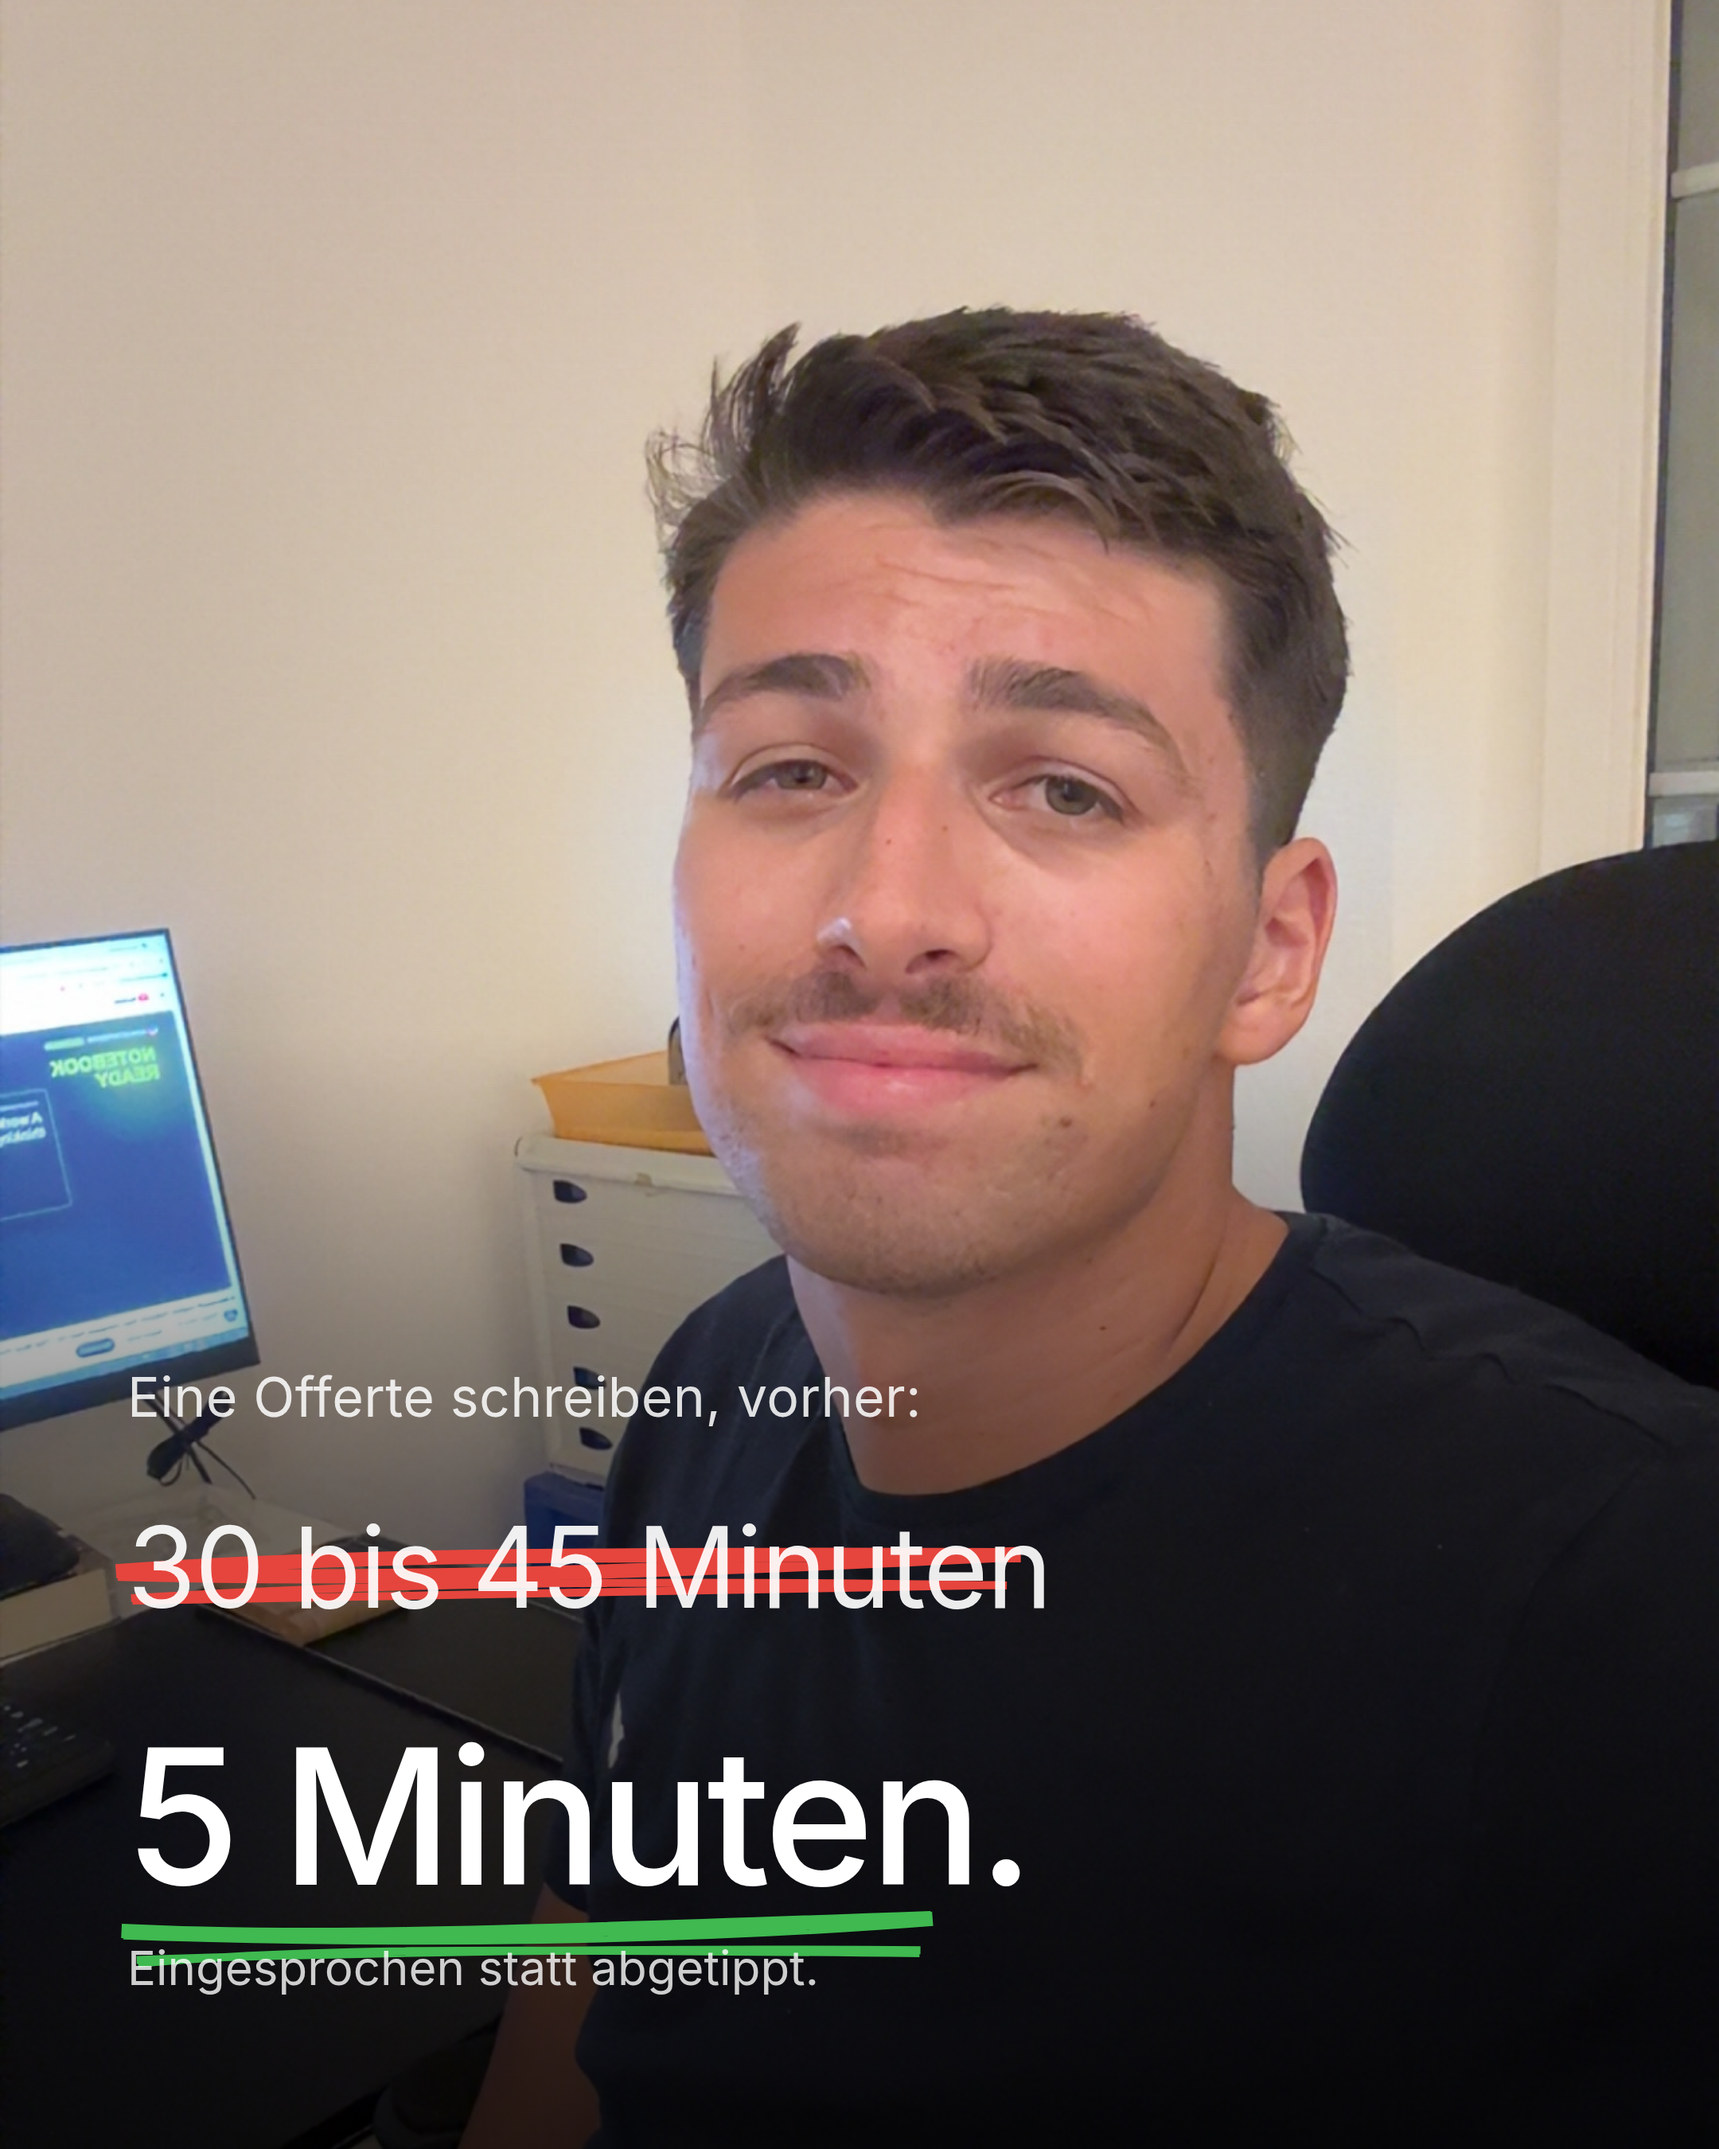
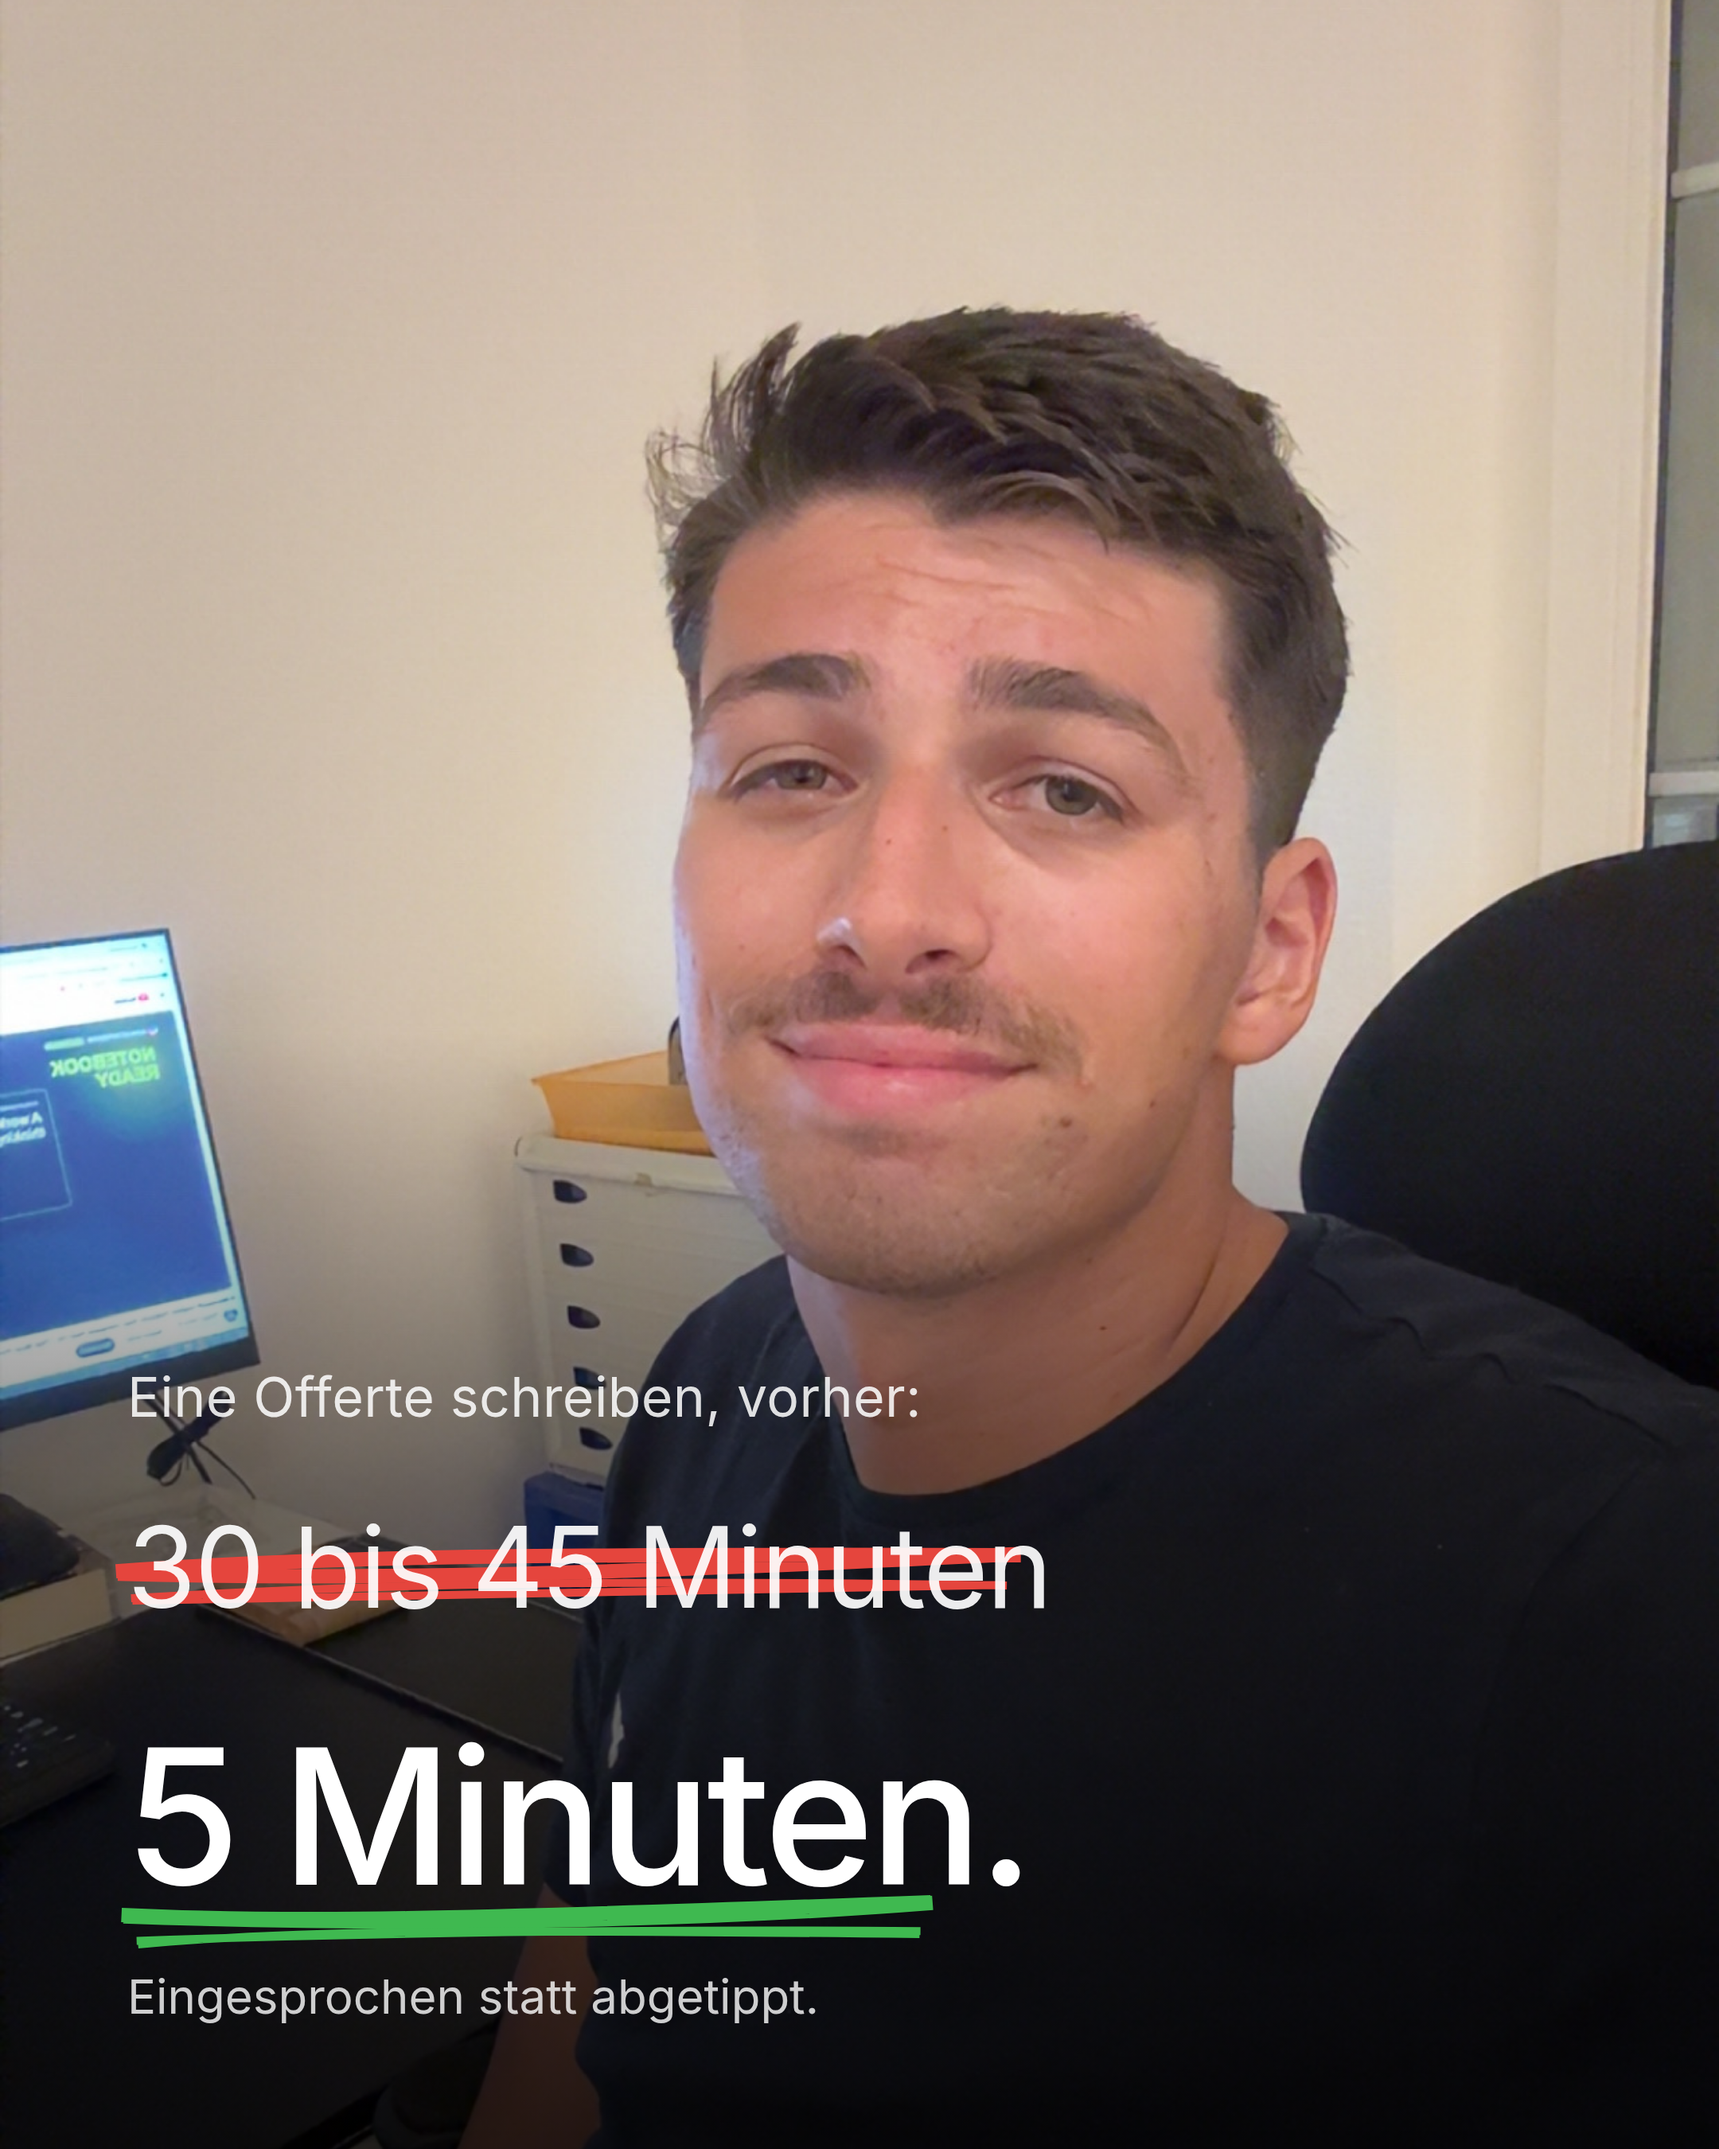
Bildentwurf: Unterstrich von der Unterzeile geloest
Claude-Session: https://claude.ai/code/session_011uqJThEvfyZaZ27wjBcmdt

Changed region(s): [[0.062, 0.8711, 0.5583, 0.9333]]

diff --git a/fotos/foto-offerte.html b/fotos/foto-offerte.html
@@ -11,7 +11,7 @@ svg{position:absolute;left:0;top:0;width:1080px;height:1350px;}
 .lab{position:absolute;left:80px;bottom:452px;color:#fff;opacity:.86;font-size:34px;font-weight:400;letter-spacing:.2px;}
 .old{position:absolute;left:80px;bottom:330px;color:#fff;opacity:.92;font-size:70px;font-weight:400;letter-spacing:-1px;line-height:1;}
 .new{position:absolute;left:80px;bottom:150px;color:#fff;font-size:118px;font-weight:500;letter-spacing:-3px;line-height:1;}
-.sub{position:absolute;left:80px;bottom:96px;color:#fff;opacity:.8;font-size:30px;font-weight:400;}
+.sub{position:absolute;left:80px;bottom:78px;color:#fff;opacity:.8;font-size:30px;font-weight:400;}
 </style></head><body>
 <div class="s">
   <img class="ph" src="foto.jpg">
@@ -28,7 +28,7 @@ const A=document.getElementById('a'), r=rough.svg(A);
 const o=(c,w,s)=>({stroke:c,strokeWidth:w,roughness:2.1,bowing:2.2,seed:s});
 A.appendChild(r.line(74,988,640,976,o('#e5453d',9,3)));
 A.appendChild(r.line(82,1004,632,996,o('#e5453d',5,4)));
-A.appendChild(r.line(78,1214,586,1206,o('#3fb950',9,7)));
-A.appendChild(r.line(86,1232,578,1226,o('#3fb950',5,8)));
+A.appendChild(r.line(78,1204,586,1196,o('#3fb950',9,7)));
+A.appendChild(r.line(86,1220,578,1214,o('#3fb950',5,8)));
 window.__ready={rough:typeof rough,n:A.childElementCount};
 </script></body></html>
